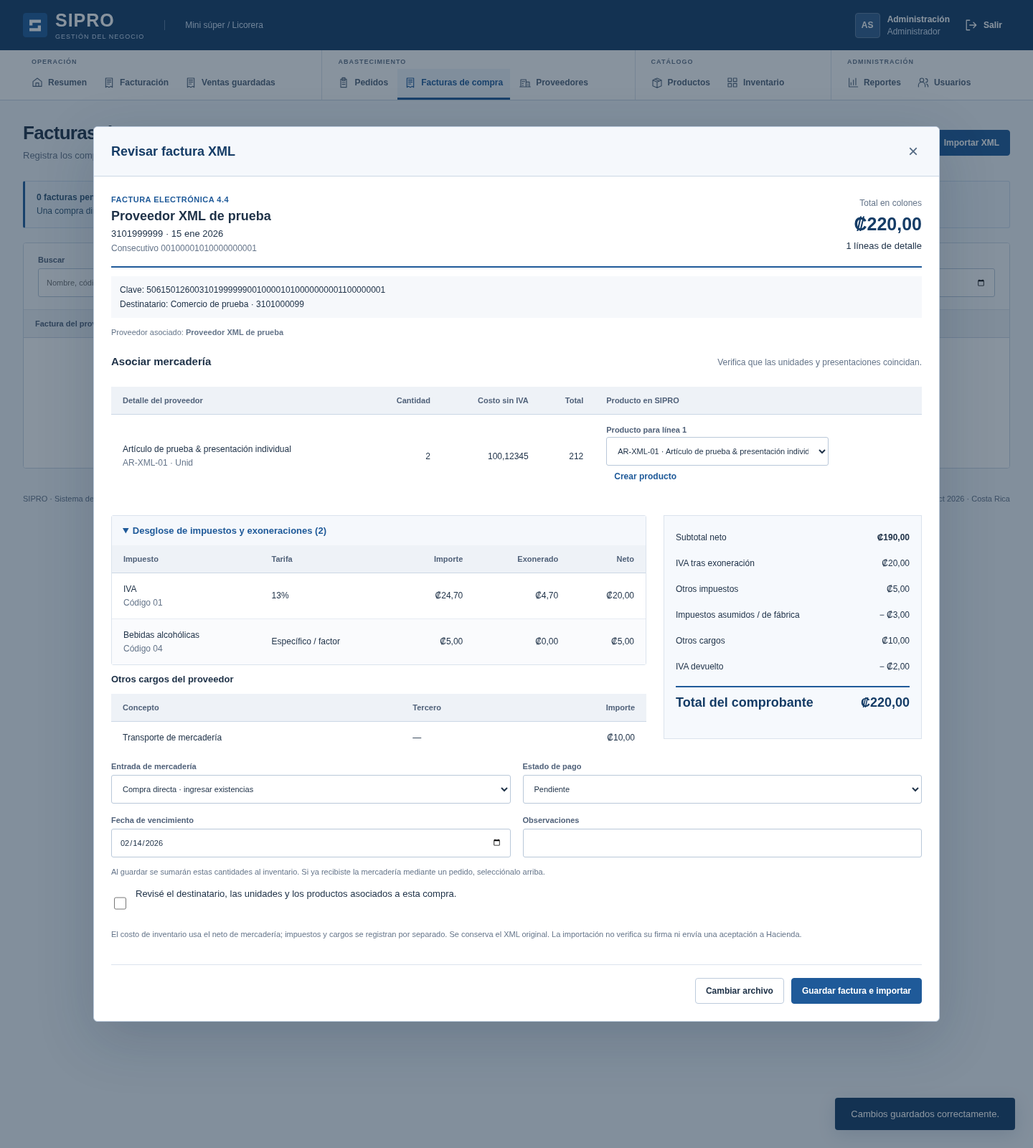
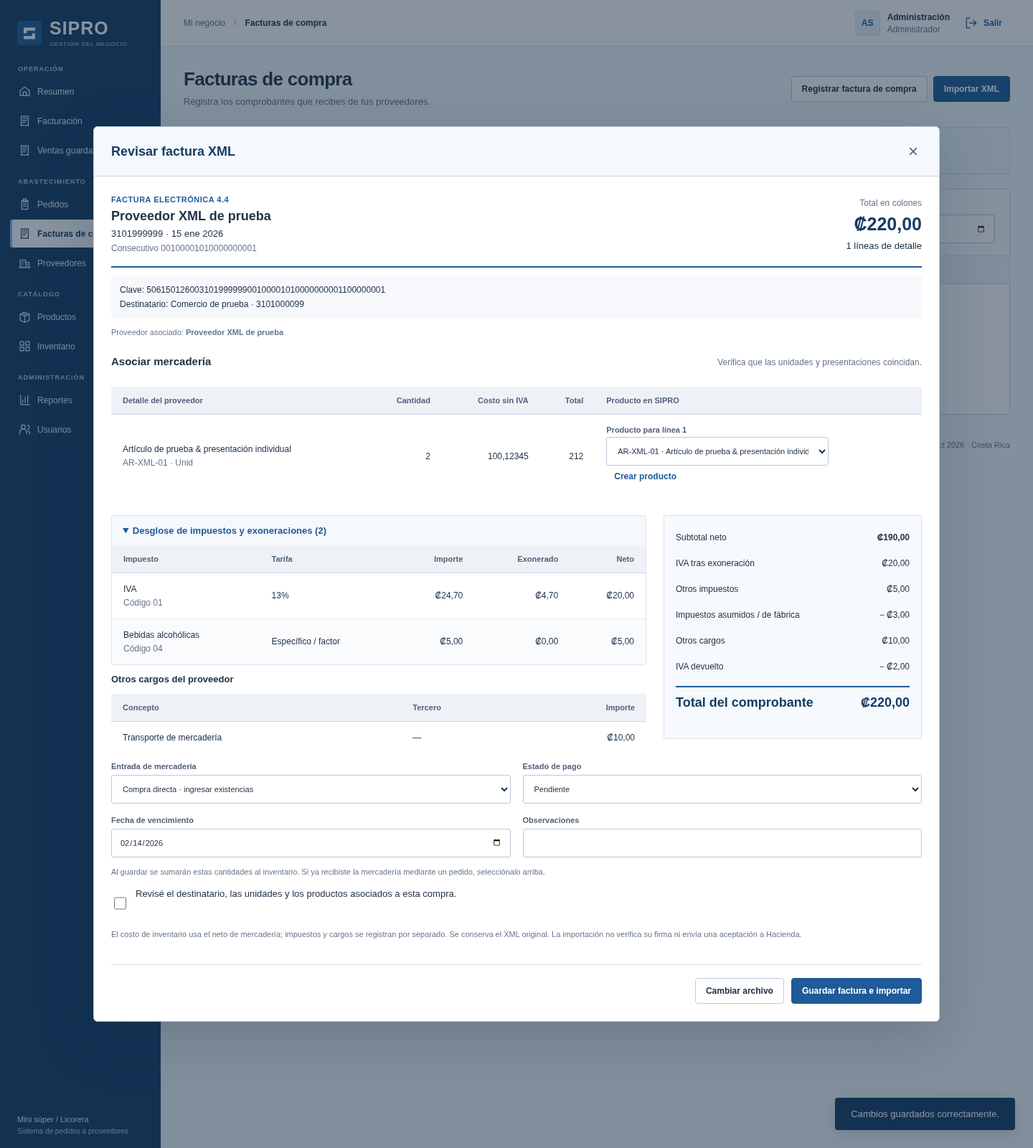
Restaurar barra lateral y mostrar confirmación de inventario en compras

Changed region(s): [[0.0, 0.0, 1.0, 1.0]]

diff --git a/public/styles/index.css b/public/styles/index.css
@@ -1228,31 +1228,35 @@ dialog::backdrop {
 .section-heading { display: flex; justify-content: space-between; gap: 16px; align-items: baseline; margin-top: 20px; }
 .section-heading span { color: var(--muted); font-size: 12px; }
 
-/* Sistema visual de operaciones: azul original, navegación superior y superficies planas. */
+/* Sistema visual de operaciones: azul original, navegación lateral y superficies planas. */
 @media screen {
   :root { --blue: #1f5a99; --deep: #153c66; --ink: #203349; --muted: #65758a; --bg: #f3f6fa; --line: #dbe3ed; --radius: 4px; font-family: "Segoe UI", Arial, sans-serif; font-size: 13px; }
-  .shell { display: block; min-height: 100vh; }
-  .workspace-header { background: white; border-bottom: 1px solid #c9d6e5; }
-  .workspace-bar { display: flex; align-items: center; gap: 28px; min-height: 70px; padding: 14px 32px; background: var(--deep); color: white; }
-  .workspace-bar .brand { color: white; font-size: 25px; letter-spacing: 1px; }
-  .workspace-bar .brand small { color: #c6d8ef; letter-spacing: 1px; font-size: 9px; }
-  .workspace-bar .brand img { width: 34px; height: 34px; }
-  .business-label { color: #cbdcf0; border-left: 1px solid #58799d; padding-left: 28px; font-size: 12px; }
+  .shell { display: grid; grid-template-columns: 224px minmax(0, 1fr); min-height: 100vh; }
+  .workspace-sidebar { position: sticky; top: 0; height: 100vh; display: flex; flex-direction: column; padding: 25px 14px 18px; background: var(--deep); color: white; overflow-y: auto; }
+  .workspace-sidebar .brand { color: white; padding: 0 10px 25px; font-size: 25px; }
+  .workspace-sidebar .brand small { color: #bfd0e5; font-size: 8px; letter-spacing: 0.8px; }
+  .workspace-sidebar .brand img { width: 34px; height: 34px; }
+  #workspace-menu > summary { display: none; }
+  .nav-links { display: flex; flex-direction: column; gap: 19px; padding: 0; overflow: visible; }
+  .nav-group { padding: 0; border: 0; }
+  .nav-caption { display: block; padding: 0 11px; margin-bottom: 7px; font-size: 9px; letter-spacing: 1px; text-transform: uppercase; color: #b0c6df; font-weight: 600; }
+  .nav-group > div { display: grid; gap: 2px; }
+  .nav-links a { display: flex; padding: 11px 12px; gap: 9px; border-radius: 3px; font-size: 12px; color: #e2ecf7; font-weight: 500; }
+  .nav-links a .icon { width: 17px; height: 17px; }
+  .nav-links a:hover { background: #28517d; color: white; }
+  .nav-links a.active { background: white; color: var(--deep); font-weight: 650; box-shadow: inset 3px 0 #7eb6ee; }
+  .sidebar-business { display: grid; gap: 5px; margin: auto 10px 0; padding-top: 30px; color: #b0c6df; font-size: 10px; }
+  .sidebar-business b { color: #e2ecf7; font-size: 11px; font-weight: 500; }
+  .workspace-bar { display: flex; align-items: center; gap: 20px; min-height: 65px; padding: 12px 32px; background: white; border-bottom: 1px solid var(--line); }
+  .workspace-location { display: flex; gap: 12px; font-size: 12px; color: var(--muted); }
+  .workspace-location strong { color: var(--ink); font-weight: 600; }
+  .workspace-location > span { color: #a1afbf; }
   .workspace-bar .user-info { margin-left: auto; }
-  .workspace-bar .user-info small { color: #cbdcf0; }
-  .workspace-bar .avatar { background: #315d8c; border: 1px solid #5e7da0; color: white; border-radius: 4px; }
-  .workspace-bar .btn { color: white; }
-  .workspace-bar .btn:hover { background: #315d8c; }
-  .nav-links { display: flex; flex-direction: row; gap: 0; padding: 0 22px; overflow-x: auto; scrollbar-width: thin; }
-  .nav-group { flex: 1 0 auto; padding: 11px 12px 0; border-right: 1px solid var(--line); }
-  .nav-group:last-child { border-right: 0; }
-  .nav-caption { display: block; font-size: 9px; font-weight: 650; letter-spacing: 1px; text-transform: uppercase; color: var(--muted); padding: 0 10px; margin: 0 0 5px; }
-  .nav-group > div { display: flex; gap: 3px; }
-  .nav-links a { display: flex; white-space: nowrap; padding: 11px 10px 13px; gap: 7px; border-radius: 0; font-size: 12px; border-bottom: 3px solid transparent; color: #53657b; }
-  .nav-links a .icon { width: 16px; height: 16px; }
-  .nav-links a:hover { background: #f3f6fa; }
-  .nav-links a.active { color: var(--blue); background: #eef4fb; border-bottom-color: var(--blue); box-shadow: none; }
-  .main-wrap { max-width: 1660px; margin: 0 auto; }
+  .workspace-bar .user-info small { color: var(--muted); }
+  .workspace-bar .avatar { background: #eaf1f9; border: 1px solid #d8e3f0; color: var(--blue); border-radius: 4px; }
+  .workspace-bar .btn { color: var(--blue); }
+  .workspace-bar .btn:hover { background: #edf3fb; }
+  .main-wrap { width: 100%; min-width: 0; max-width: 1660px; margin: 0 auto; }
   .content { padding: 30px 32px 20px; max-width: none; }
   .workspace-footer { display: flex; justify-content: space-between; gap: 12px; padding: 16px 32px 24px; color: var(--muted); font-size: 11px; }
   h1 { font-size: 26px; letter-spacing: -0.7px; font-weight: 650; margin-bottom: 6px; }
@@ -1375,7 +1379,6 @@ dialog::backdrop {
 }
 @media screen and (max-width: 1000px) {
   .workspace-bar { padding: 14px 20px; }
-  .nav-links { padding: 0 8px; }
   .content { padding: 25px 20px; }
   .sale-layout { grid-template-columns: minmax(0, 1fr) 300px; gap: 16px; }
   .dashboard-grid { gap: 16px; }
@@ -1384,15 +1387,17 @@ dialog::backdrop {
   .pos-scan .field { min-width: 180px; }
 }
 @media screen and (max-width: 760px) {
-  .business-label { display: none; }
-  .workspace-bar { gap: 12px; padding: 13px 16px; }
-  .workspace-bar .brand { font-size: 21px; }
-  .workspace-bar .brand small { font-size: 8px; }
+  .shell { display: block; }
+  .workspace-sidebar { position: static; height: auto; padding: 15px 16px 12px; }
+  .workspace-sidebar .brand { font-size: 22px; padding: 0 0 12px; }
+  .sidebar-business { display: none; }
+  #workspace-menu > summary { display: list-item; padding: 9px 4px; font-size: 12px; color: #e2ecf7; cursor: pointer; }
+  #workspace-menu[open] > summary { margin-bottom: 12px; }
+  .nav-links { gap: 14px; }
+  .nav-links a { padding: 11px 12px; }
+  .workspace-bar { gap: 12px; min-height: 56px; padding: 10px 16px; }
+  .workspace-location { font-size: 11px; gap: 8px; }
   .workspace-bar .user-info small, .workspace-bar .avatar { display: none; }
-  .nav-links { padding: 0; }
-  .nav-group { flex: 0 0 auto; padding: 8px 7px 0; }
-  .nav-links a { padding: 10px 8px; }
-  .nav-links a .icon { display: none; }
   .content { padding: 22px 14px; }
   .page-head { align-items: flex-start; flex-direction: column; gap: 15px; }
   h1 { font-size: 24px; }
@@ -1443,4 +1448,17 @@ dialog::backdrop {
   .purchase-totals { break-inside: avoid; margin-top: 12px; }
   .purchase-totals .total-line { padding: 4px 0; font-size: 11px; }
   .purchase-totals .grand { padding: 6px 0; margin-top: 6px; font-size: 14px; }
+}
+
+.stock-receipt { border: 1px solid var(--line); margin: 20px 0; padding: 16px; }
+.stock-receipt h3 { margin-bottom: 6px; }
+.stock-receipt p { color: var(--muted); font-size: 12px; margin-bottom: 14px; }
+@media screen {
+  .stock-receipt { border-left: 3px solid var(--blue); background: #f7faff; }
+  .stock-receipt .table-wrap { background: white; }
+  summary:focus-visible { outline: 3px solid #8bb9eb; outline-offset: 3px; }
+}
+@media print {
+  .stock-receipt { padding: 8px; break-inside: avoid; }
+  .stock-receipt p { font-size: 10px; }
 }

diff --git a/public/app.js b/public/app.js
@@ -97,7 +97,7 @@ const statusBadge = (s) =>
 const button = (label, action, id = "", style = "") =>
   `<button type="button" class="btn ${style}" data-action="${action}" data-id="${id}">${label}</button>`;
 const table = (heads, rows, empty = "No hay registros para mostrar.") => {
-  const numeric = heads.map((h) => /^(Cantidad|Costo.*|Precio.*|Total|IVA.*|Importe|Exonerado|Neto|Impuestos.*|Otros impuestos|Otros cargos|Descuento|Existencias|Stock.*|Mínimo|Subtotal|Entradas|Salidas|Utilidad.*)$/.test(h));
+  const numeric = heads.map((h) => /^(Cantidad|Costo.*|Precio.*|Total|IVA.*|Importe|Exonerado|Neto|Impuestos.*|Otros impuestos|Otros cargos|Descuento|Existencias?|Antes|Ingresadas|Después|Saldo|Stock.*|Mínimo|Subtotal|Entradas|Salidas|Utilidad.*)$/.test(h));
   return `<div class="table-wrap"><table><thead><tr>${heads.map((h, i) => `<th scope="col"${numeric[i] ? ' class="numeric"' : ""}>${esc(h)}</th>`).join("")}</tr></thead><tbody>${rows.length ? rows.map((row) => {
     let i = 0;
     return row.replace(/<td>/g, () => `<td${numeric[i++] ? ' class="numeric"' : ""}>`);
@@ -155,10 +155,10 @@ function shell() {
   ].map(([group, keys]) => `<div class="nav-group"><span class="nav-caption">${group}</span><div>${keys
     .filter((key) => key !== "users" || isAdmin())
     .map((key) => `<a href="#${key}" class="${currentPage === key ? "active" : ""}" ${currentPage === key ? 'aria-current="page"' : ""}>${icon(key)}${modules.find((m) => m[0] === key)[1]}</a>`).join("")}</div></div>`).join("");
+  const label = modules.find((m) => m[0] === currentPage)?.[1] || "Resumen";
   $("#app").innerHTML = `<div class="shell">
-    <header class="workspace-header"><div class="workspace-bar">${brand}<span class="business-label">Mini súper / Licorera</span><div class="user-info"><div class="avatar">${esc(state.me.name[0])}${esc(state.me.surname[0])}</div><div><b>${esc(state.me.name)}</b><small>${esc(state.me.role)}</small></div>${button(`${icon("logout")} Salir`, "logout", "", "plain small")}</div></div>
-    <nav class="nav-links" aria-label="Módulos">${navigation}</nav></header>
-    <div class="main-wrap"><main class="content" id="content"></main><footer class="workspace-footer"><span>SIPRO · Sistema de gestión</span><span>${date(state.today)} · Costa Rica</span></footer></div></div>`;
+    <aside class="workspace-sidebar">${brand}<details id="workspace-menu" ${matchMedia("(min-width: 761px)").matches ? "open" : ""}><summary>Menú de navegación</summary><nav class="nav-links" aria-label="Módulos">${navigation}</nav></details><div class="sidebar-business"><b>Mini súper / Licorera</b><span>Sistema de pedidos a proveedores</span></div></aside>
+    <div class="main-wrap"><header class="workspace-bar"><div class="workspace-location">Mi negocio <span>/</span> <strong>${esc(label)}</strong></div><div class="user-info"><div class="avatar">${esc(state.me.name[0])}${esc(state.me.surname[0])}</div><div><b>${esc(state.me.name)}</b><small>${esc(state.me.role)}</small></div>${button(`${icon("logout")} Salir`, "logout", "", "plain small")}</div></header><main class="content" id="content"></main><footer class="workspace-footer"><span>SIPRO · Sistema de gestión</span><span>${date(state.today)} · Costa Rica</span></footer></div></div>`;
 }
 function render() {
   if (!state) return login();
@@ -1330,7 +1330,7 @@ function importPurchaseXml() {
       try {
         const invoice = await api("purchase-invoices/xml", "POST", { xml, mappings, orderId: source, status: payment, dueDate, notes });
         $("#modal").close(); await reload(); viewPurchaseInvoice(invoice.id);
-        toast("Factura importada. El XML original quedó guardado.");
+        toast(invoice.orderId ? "Factura vinculada al pedido recibido. Las existencias no se duplicaron." : "Factura importada e inventario actualizado. Revisa las cantidades ingresadas en el detalle.");
       } catch (error) { $(".error", form).textContent = error.message; }
       finally { btn.disabled = !supplier?.active; }
     };
@@ -1545,7 +1545,15 @@ function purchaseInvoiceContent(i) {
         ]),
       ),
     )}
-    ${purchaseTaxDetail(i)}<p>${esc(i.notes)}</p>`;
+    ${purchaseTaxDetail(i)}${purchaseStockReceipt(i)}<p>${esc(i.notes)}</p>`;
+}
+function purchaseStockReceipt(i) {
+  if (i.orderId) return `<div class="stock-receipt"><h3>Inventario registrado al recibir el pedido</h3><p>Esta factura está vinculada a ${idLabel("PED", i.orderId)}. Las cantidades ya ingresaron con su recepción y no se sumaron otra vez.</p></div>`;
+  const receipt = i.inventoryReceipt;
+  if (!receipt?.entries?.length) return `<p class="form-help">Compra directa: la mercadería se ingresó al guardar la factura. Consulta el movimiento de compra en Inventario.</p>`;
+  return `<section class="stock-receipt"><h3>Entrada de inventario confirmada</h3><p>Saldos al registrar esta compra el ${date(i.registered)}. Los movimientos posteriores pueden cambiar la existencia actual.</p>${table(["Producto", "Antes", "Ingresadas", "Después"], receipt.entries.map((e) => tr([
+    `${esc(e.name)}<small>${esc(e.code)}</small>`, e.before, `+${e.quantity}`, e.after,
+  ])))}</section>`;
 }
 function viewPurchaseInvoice(id) {
   const i = state.purchaseInvoices.find((i) => i.id === Number(id));
@@ -1695,4 +1703,9 @@ document.addEventListener("keydown", (e) => {
     e.preventDefault();
     $("#sale-form")?.requestSubmit();
   }
+});
+
+matchMedia("(min-width: 761px)").addEventListener("change", (e) => {
+  const menu = $("#workspace-menu");
+  if (menu) menu.open = e.matches;
 });

diff --git a/tests/purchase-xml.test.js b/tests/purchase-xml.test.js
@@ -59,6 +59,11 @@ test("vista previa no escribe; importación conserva XML, importes, historia y s
   assert.equal(saved.body.items[0].price, 100.12345);
   const state = (await call("state")).body;
   assert.equal(state.products[0].stock, before.products[0].stock + 2);
+  assert.deepEqual(saved.body.inventoryReceipt.entries[0], {
+    productId: 1, code: before.products[0].code, name: before.products[0].name,
+    before: before.products[0].stock, quantity: 2, after: before.products[0].stock + 2,
+    movementId: state.movements.at(-1).id,
+  });
   assert.equal(state.movements.at(-1).date, today());
   assert.equal(state.purchaseStart, "2026-01-15");
   assert.ok(!("purchaseInvoiceDocuments" in state));
@@ -71,6 +76,7 @@ test("vista previa no escribe; importación conserva XML, importes, historia y s
   assert.equal(report.body.rows.length, 1);
   const store = openStore(join(dir, "test.sqlite"));
   assert.equal(store.read().purchaseInvoiceDocuments[saved.body.id], xml);
+  assert.deepEqual(store.read().purchaseInvoices[0].inventoryReceipt, saved.body.inventoryReceipt);
   store.close();
 });
 
@@ -96,6 +102,7 @@ test("XML vinculado a pedido recibido conserva existencias, movimientos y costo"
   const result = await call("purchase-invoices/xml", "POST", { ...importBody(invoiceXml({ code: "74034412" })), mappings: [2], orderId: order.body.id });
   assert.equal(result.status, 201, JSON.stringify(result.body));
   const after = (await call("state")).body;
+  assert.deepEqual(result.body.inventoryReceipt, { kind: "received-order", orderId: order.body.id, entries: [] });
   assert.deepEqual(after.products, before.products);
   assert.deepEqual(after.movements, before.movements);
 });

diff --git a/src/domain.js b/src/domain.js
@@ -679,6 +679,7 @@ export function createPurchaseInvoice(s, user, b, xmlDocument = null) {
     paidDate: status === "Pagada" ? today() : null,
     notes: text(b.notes ?? "", "Observaciones", false),
     user: user.username,
+    inventoryReceipt: { kind: order ? "received-order" : "direct", orderId: order?.id ?? null, entries: [] },
   };
   // Un pedido recibido ya movió existencias. Su factura solo documenta la compra.
   if (!order) {
@@ -691,8 +692,11 @@ export function createPurchaseInvoice(s, user, b, xmlDocument = null) {
     }
     for (const l of entries.values()) {
       const p = find(s.products, l.productId);
+      const before = p.stock;
       p.cost = money((p.stock * p.cost + l.net) / (p.stock + l.qty));
       movement(s, p, l.qty, `Compra ${invoiceNumber} · ${supplier.name}`, user);
+      invoice.inventoryReceipt.entries.push({ productId: p.id, code: p.code, name: p.name,
+        before, quantity: l.qty, after: p.stock, movementId: s.movements.at(-1).id });
     }
   }
   s.purchaseInvoices.push(invoice);

diff --git a/tests/workflow.test.js b/tests/workflow.test.js
@@ -429,6 +429,9 @@ test("factura de compra directa guarda importes, costos y entrada de inventario 
   assert.equal(result.body.total, 1017);
   assert.equal(result.body.invoiceNumber, "PROV-001");
   assert.equal(result.body.orderId, null);
+  assert.equal(result.body.inventoryReceipt.kind, "direct");
+  assert.equal(result.body.inventoryReceipt.entries[0].before, before.products[0].stock);
+  assert.equal(result.body.inventoryReceipt.entries[0].after, before.products[0].stock + 2);
   const after = (await call("state")).body;
   assert.equal(after.products[0].stock, before.products[0].stock + 2);
   assert.equal(after.products[0].cost, 786);

diff --git a/docs/DISENO-IMPORTACION-XML.md b/docs/DISENO-IMPORTACION-XML.md
@@ -15,7 +15,7 @@ El acceso directo al sitio de Carbon y al CDN de esquemas estuvo bloqueado desde
 La expresión «vibe coding» no es una categoría técnica verificable. Aquí se interpretó como evitar una presentación de plantilla con adornos repetidos que compiten con las tareas del negocio.
 
 - Recuperar los colores de la primera versión: azul #1f5a99, azul oscuro #153c66, blanco y fondo #f3f6fa. El usuario pidió sustituir el estilo salvia. Se eliminó el bloque del tema anterior y se creó un sistema visual de superficies planas, líneas divisorias y controles compactos.
-- Reemplazar el menú lateral por navegación superior agrupada. Mostrar indicadores en una franja y reunir filtros/tablas en una superficie de consulta. En caja, priorizar artículos, dejar cliente debajo y mantener cobro a la derecha. En móvil, la navegación y las tablas admiten desplazamiento horizontal sin desbordar la página.
+- Usar barra lateral agrupada, según la preferencia del usuario y la cantidad de módulos. Mantener el mismo orden en todas las pantallas y marcar la sección activa. Mostrar indicadores en una franja y reunir filtros/tablas en una superficie de consulta. En caja, priorizar artículos, dejar cliente debajo y mantener cobro a la derecha. En móvil, el menú se abre con un control nativo de navegación y las tablas admiten desplazamiento horizontal sin desbordar la página.
 - Alinear importes y cantidades a la derecha, usar cifras tabulares y encabezados cortos. Los estados de pago combinan texto y color.
 - Dar a Facturas de compra dos acciones explícitas: registro manual e importación XML. La revisión muestra primero emisor, consecutivo y total; después el detalle y sus asociaciones; finalmente inventario y pago.
 - Solicitar una revisión de unidades/presentaciones y destinatario antes de importar. El catálogo no permite deducir automáticamente que una caja del proveedor equivale a una unidad de venta.
@@ -55,3 +55,21 @@ Por línea: impuestos netos = suma de impuestos menos exoneraciones menos impues
 El importe de IVA mostrado es posterior a exoneraciones y anterior al ajuste agregado de impuestos asumidos, que se resta en su propia fila; el desglose no atribuye ese ajuste a un impuesto particular sin información del emisor. No se calcula crédito fiscal ni validez de una exoneración. Los parámetros específicos permanecen en el XML original. El inventario se valora con neto de mercadería, sin distribuir impuestos ni cargos.
 
 Las pruebas incluyen un documento sintético con IVA, impuesto de bebidas, exoneración, impuesto asumido, transporte e IVA devuelto, otro con base imponible compuesta y casos inconsistentes rechazados sin cambios parciales. La captura del usuario permite identificar el rechazo anterior, pero no proporciona el contenido del XML real: todavía no se ha probado ese archivo específico.
+
+
+## Revisión: navegación e identidad visual
+
+Fuentes adicionales consultadas el 13 de octubre de 2026:
+
+- **Carbon, UI shell left panel**: [documentación](https://carbondesignsystem.com/components/UI-shell-left-panel/usage/) y [fuente consultada](https://github.com/carbon-design-system/carbon-website/blob/main/src/pages/components/UI-shell-left-panel/usage.mdx). Recomienda panel izquierdo cuando existen más de cinco secciones secundarias o cuando el usuario cambia frecuentemente entre ellas. SIPRO tiene diez módulos y el usuario prefiere ese panel: se recupera una barra lateral persistente y agrupada.
+- **W3C, Understanding Consistent Navigation (3.2.3)**: [documentación](https://www.w3.org/WAI/WCAG22/Understanding/consistent-navigation.html) y [fuente consultada](https://github.com/w3c/wcag/blob/main/understanding/20/consistent-navigation.html). Explica cómo el orden estable de controles facilita la orientación y la memoria espacial. Se mantiene un orden fijo de módulos y una indicación textual y visual de la página activa.
+
+Estas referencias describen usabilidad y accesibilidad, no un detector de interfaces hechas con IA. La interpretación aplicada de «que no parezca IA» es dar prioridad al trabajo del comercio: nombres específicos, datos reales, mensajes que expliquen el resultado, una paleta azul estable, jerarquía consistente y ausencia de adornos o estadísticas inventadas. No se afirma conformidad completa con WCAG a partir de estas decisiones.
+
+La barra lateral conserva los azules originales. En móvil se convierte en menú plegable con `details/summary`, operable con teclado; al entrar en otra sección se pliega para dejar espacio al contenido. No se duplica la navegación ni se dejan controles ocultos accesibles al teclado.
+
+## Evidencia del ingreso de inventario
+
+La regla existente de compra directa ya incrementaba existencias dentro de la misma transacción que guarda la factura. Se conserva y ahora se registra además un comprobante de movimiento por producto, con saldo anterior, cantidad ingresada, saldo posterior e identificador del movimiento. El detalle presenta ese resultado después de guardar, tanto para XML como para compra manual. No son saldos actuales calculados retroactivamente: permanecen iguales si hay ventas posteriores.
+
+Una factura vinculada a un pedido recibido registra explícitamente ese origen y no repite movimientos. En facturas anteriores a esta ampliación se mantiene el historial disponible, sin inventar saldos históricos. Las pruebas comprueban la entrada, la vinculación sin duplicados, la recuperación desde SQLite y la existencia mostrada en la pantalla de Inventario después de importar y recargar.

diff --git a/README.md b/README.md
@@ -38,7 +38,7 @@ Estas cuentas contienen datos ficticios para la presentación. En **Usuarios** p
 
 ## Caja, ventas guardadas y tickets
 
-La interfaz recupera el **azul de la primera versión** (#1f5a99 y #153c66), con una distribución nueva: navegación superior agrupada, resumen en una franja de indicadores, buscadores integrados con sus tablas y formularios de superficies planas. La caja prioriza la entrada de artículos y coloca el cliente debajo; el panel de cobro permanece a la derecha en escritorio. Acceso, catálogo, compras, reportes y diálogos comparten el nuevo sistema visual. Las [decisiones y fuentes](docs/DISENO-IMPORTACION-XML.md) explican los cambios. Conserva la identidad de SIPRO; no es una integración ni una reproducción oficial de Qupos.
+La interfaz recupera el **azul de la primera versión** (#1f5a99 y #153c66), con una distribución nueva: barra lateral agrupada, plegable en móvil, resumen en una franja de indicadores, buscadores integrados con sus tablas y formularios de superficies planas. La caja prioriza la entrada de artículos y coloca el cliente debajo; el panel de cobro permanece a la derecha en escritorio. Acceso, catálogo, compras, reportes y diálogos comparten el nuevo sistema visual. Las [decisiones y fuentes](docs/DISENO-IMPORTACION-XML.md) explican los cambios. Conserva la identidad de SIPRO; no es una integración ni una reproducción oficial de Qupos.
 
 ![Pantalla de caja de SIPRO](docs/capturas/caja.png)
 
@@ -67,6 +67,8 @@ Elige el origen correcto:
 
 - **Compra directa:** mercadería que ya recibiste sin un pedido registrado. Guardar la factura suma las cantidades al inventario y actualiza el costo promedio sin IVA, incluyendo el descuento. No uses esta opción si esa mercadería ya se ingresó al inventario.
 - **Pedido recibido:** selecciona el pedido previamente recibido del proveedor. Se cargan sus productos y cantidades; puedes ingresar los costos e impuestos del comprobante. Guardar la factura **no vuelve a sumar existencias ni modifica el costo promedio que dejó la recepción**. Cada pedido completo admite una factura; no se incluyen facturas parciales ni agrupación de varios pedidos.
+
+Las compras directas nuevas guardan una confirmación de inventario con **cantidad anterior, unidades ingresadas y cantidad posterior por producto**. La encontrarás al abrir el detalle de la factura; refleja el momento del registro. Las facturas vinculadas a pedidos recibidos indican que sus existencias ya se ingresaron, para evitar duplicarlas. Las facturas antiguas conservan sus movimientos originales.
 
 Puedes indicar **Pagada** o **Pendiente**, con fecha de vencimiento para compras a crédito. El detalle permite registrar el pago completo e imprimir/guardar el registro como PDF. El pago es un registro interno: no realiza una transferencia bancaria. El dependiente puede consultar las facturas, pero solo el administrador puede registrarlas o marcarlas como pagadas.
 

diff --git a/docs/REQUISITOS.md b/docs/REQUISITOS.md
@@ -69,7 +69,7 @@ Las pruebas comprueban cálculo de importes, entradas directas, ausencia de movi
 
 ## Ampliación solicitada: diseño e importación XML
 
-- Navegación superior por operación, abastecimiento, catálogo y administración; se recuperan el azul y blanco originales con una distribución nueva de caja, indicadores, tablas, acceso y formularios.
+- Navegación lateral por operación, abastecimiento, catálogo y administración, plegable en móvil; se recuperan el azul y blanco originales con una distribución nueva de caja, indicadores, tablas, acceso y formularios.
 - XML costarricense 4.3/4.4 con revisión previa, asociación por identificación del emisor y códigos comerciales; alta asistida de proveedor y productos faltantes.
 - Datos e importes reparsados por el servidor al guardar, prevención de duplicados por clave/consecutivo, transacción atómica y recuperación del XML original con hash SHA-256.
 - Las líneas repetidas del mismo producto conservan sus importes de origen; la entrada se agrupa por producto y se comprueban las cantidades totales al vincular un pedido.
@@ -80,3 +80,6 @@ Las pruebas comprueban cálculo de importes, entradas directas, ausencia de movi
 - Los impuestos se conservan por código, tarifa e importe declarado. Las exoneraciones y ajustes se desglosan, sin tratar impuestos específicos como IVA porcentual. Se verifica `neto + impuestos netos + cargos − IVA devuelto = total`.
 - El reporte de compras y Excel incorporan otros impuestos, impuestos asumidos, impuestos netos, cargos e IVA devuelto. Las facturas antiguas se consultan sin migración destructiva.
 - El costo promedio mantiene la regla de neto de mercadería: no capitaliza automáticamente impuestos específicos ni fletes. Esta demostración no determina crédito fiscal ni costo tributario.
+
+- Confirmación persistida del inventario por factura de compra directa nueva: producto, saldo anterior, unidades ingresadas, saldo posterior e identificador del movimiento. No se reconstruye el saldo histórico usando existencias actuales.
+- La factura de pedido recibido muestra que el inventario ingresó al recibirlo; no registra otra entrada. Las pruebas verifican compra manual, XML, pedido recibido, duplicados, persistencia y existencias visibles al recargar Inventario.
